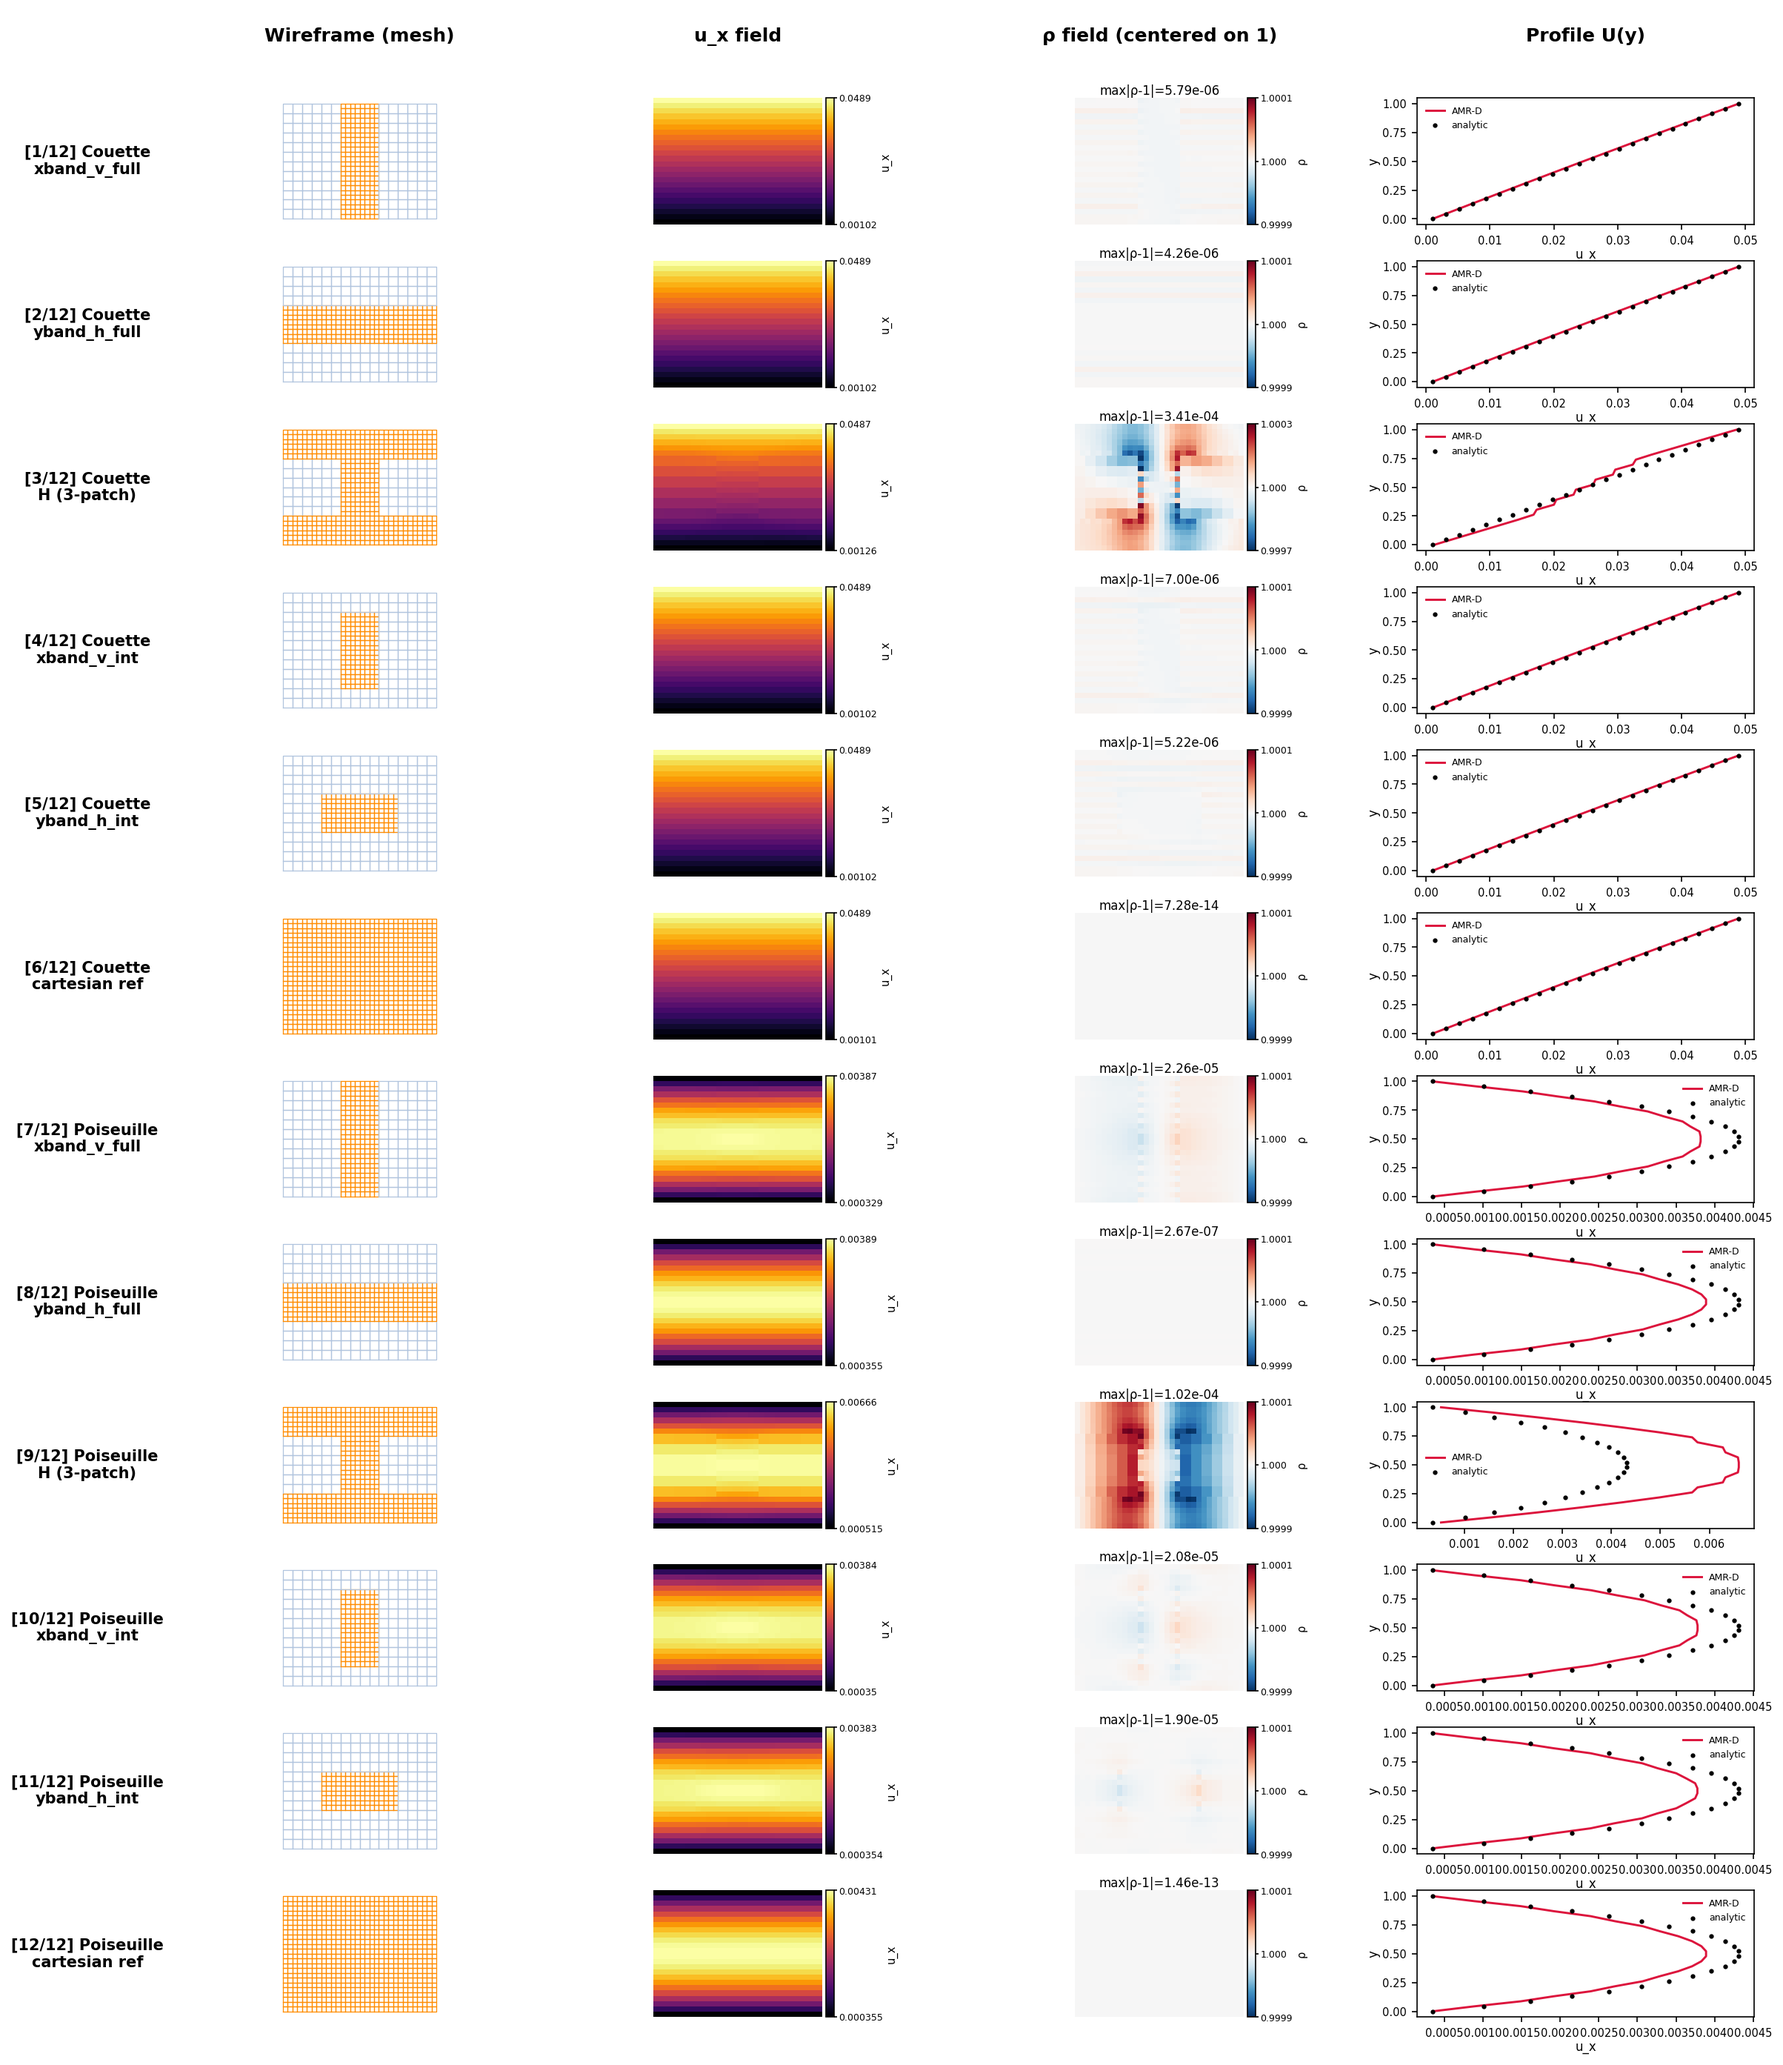
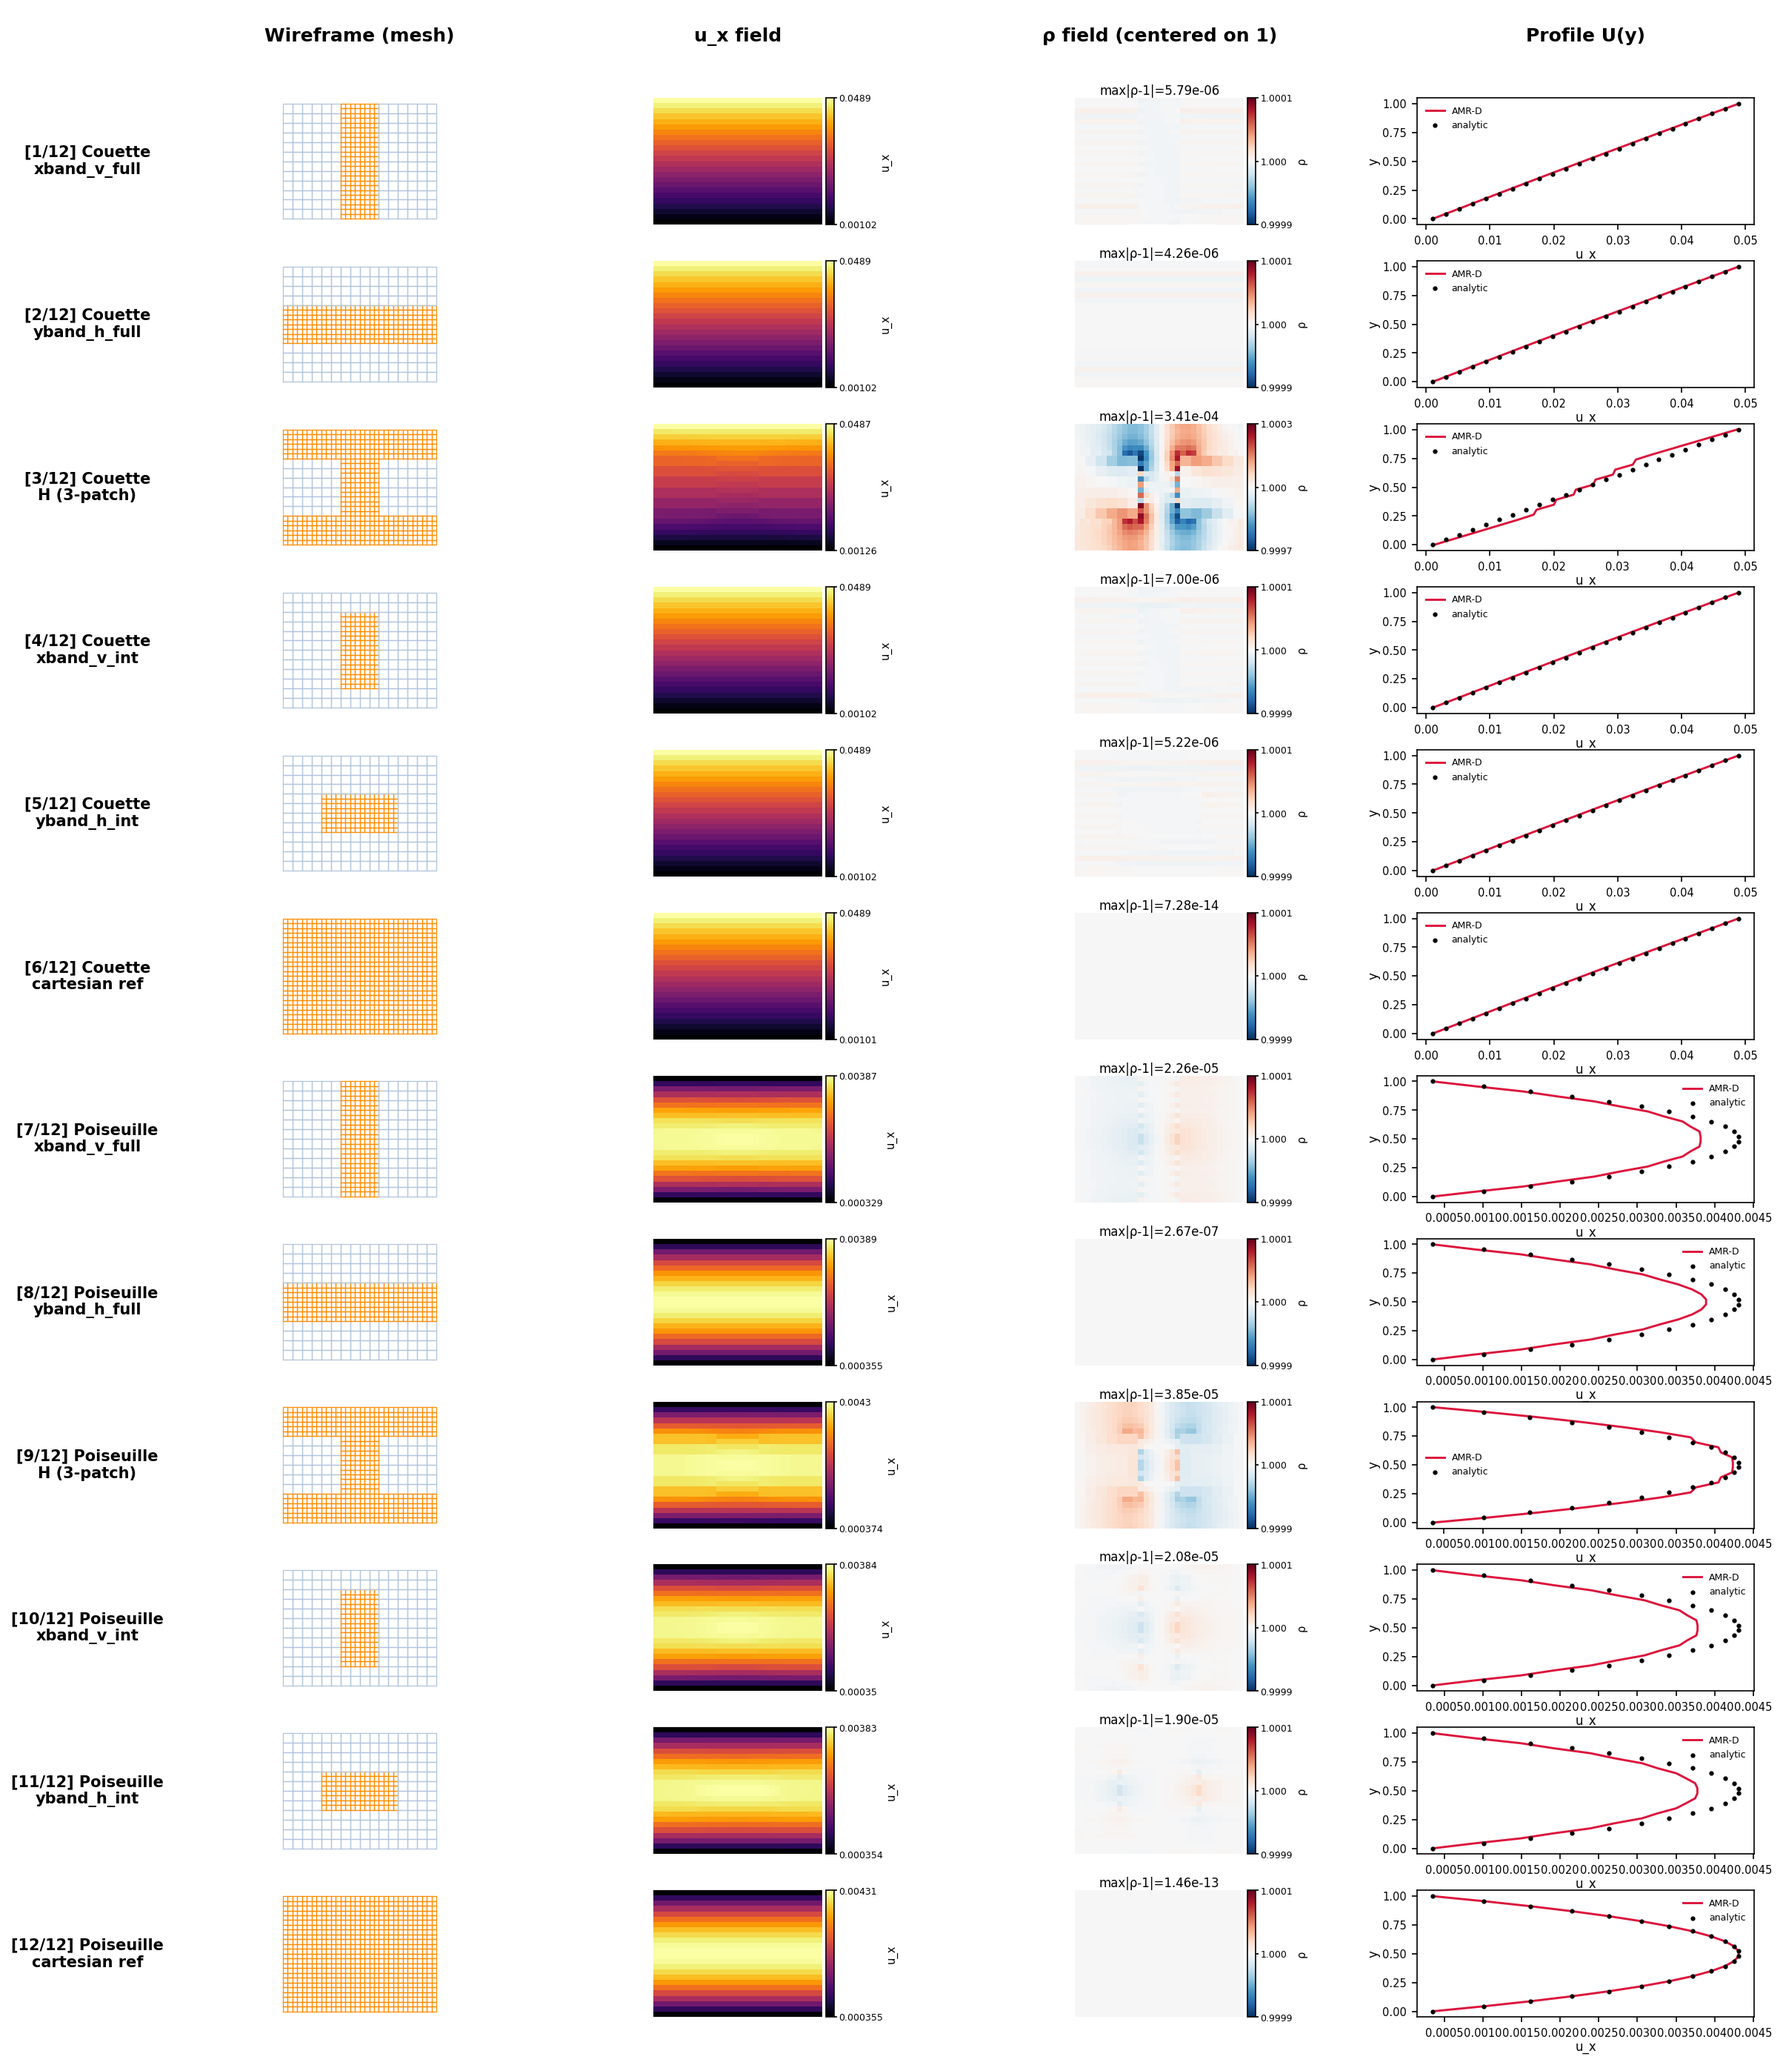
fix(amr-d): drop H5 force level-scaling in subcycled CPU+GPU runners
The subcycled nested-channel runners (Poiseuille at line 929, solid
obstacle at line 1182) and the GPU dispatcher (line 1815) were applying
`conservative_tree_leaf_equivalent_force_2d(Fx, level)` to scale the
body force per level. This was misapplied: the integrated Guo convention
already represents per-unit-volume forcing, so the helper's x2 factor on
coarse cells over-injected momentum, inflating Poiseuille H peak ux to
6.66e-3 (+54% vs analytic 4.31e-3). Aligning with the backend path
(which already passes raw Fx) brings peak ux to 4.24e-3 (-1.8% residual,
normal AMR error level).

Empirical: 14/14 non-regression tests PASS including new
poiseuille_H_nested1 peak vs analytic test.

Also:
- Dashboard Python builder: load profiles_<ref>.csv for ref rows
  (previously loaded profiles_amr_d.csv for every row, making the
  "cartesian ref" rows look identical to the AMR-D rows)
- Dashboard PNG regenerated with the matplotlib builder

Known remaining defects (separate follow-up):
- Couette H subcycled: +26% wall-row ux at static wall j=1
- Poiseuille route-native non-H fixtures: -10 to -12% peak ux vs
  leaf_oracle
- C7 micro-canaries (tmp/C7_CANARIES/synthesis.md) localize both to
  c2f prolongation losing spatial gradients across the interface

Changed region(s): [[0.592, 0.6555, 0.7167, 0.7492], [0.8101, 0.718, 0.9659, 0.7492], [0.9348, 0.9365, 0.9659, 0.9677]]

diff --git a/docs/figures/build_amr_d_dashboard_2d.py b/docs/figures/build_amr_d_dashboard_2d.py
@@ -237,9 +237,10 @@ def build_dashboard():
                          cbar_ticks=[1.0 - span, 1.0, 1.0 + span],
                          cbar_tick_labels=[f"{1.0-span:.4f}", "1.000", f"{1.0+span:.4f}"])
 
-        # Profile
+        # Profile — load AMR-D for amr rows, reference for ref rows
         ax_prof = fig.add_subplot(gs[row, 4])
-        y, ux_p, an = load_profile(pa)
+        profile_csv = pa if mode == "amr" else pr
+        y, ux_p, an = load_profile(profile_csv)
         draw_profile(ax_prof, y, ux_p, an)
 
     fig.savefig(OUT, dpi=150, bbox_inches='tight', pad_inches=0.1,
